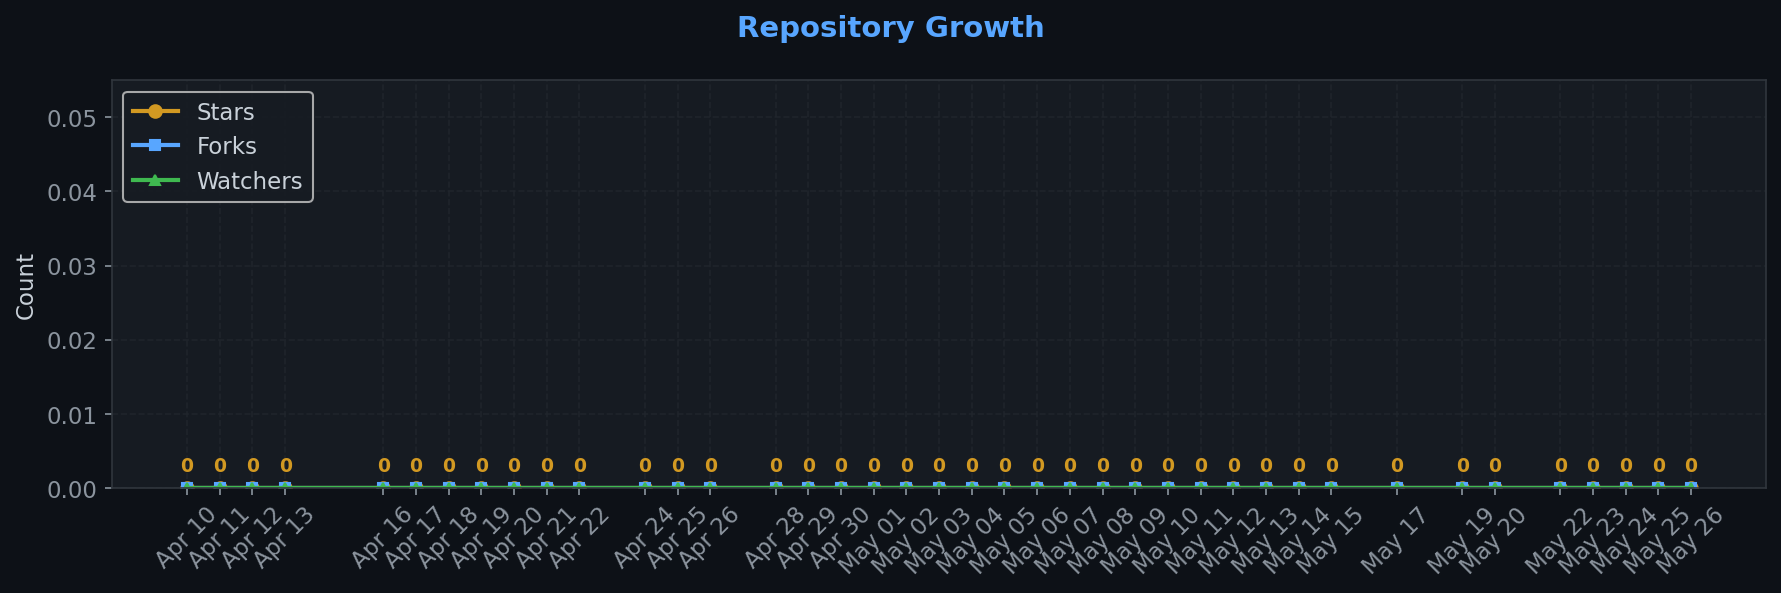
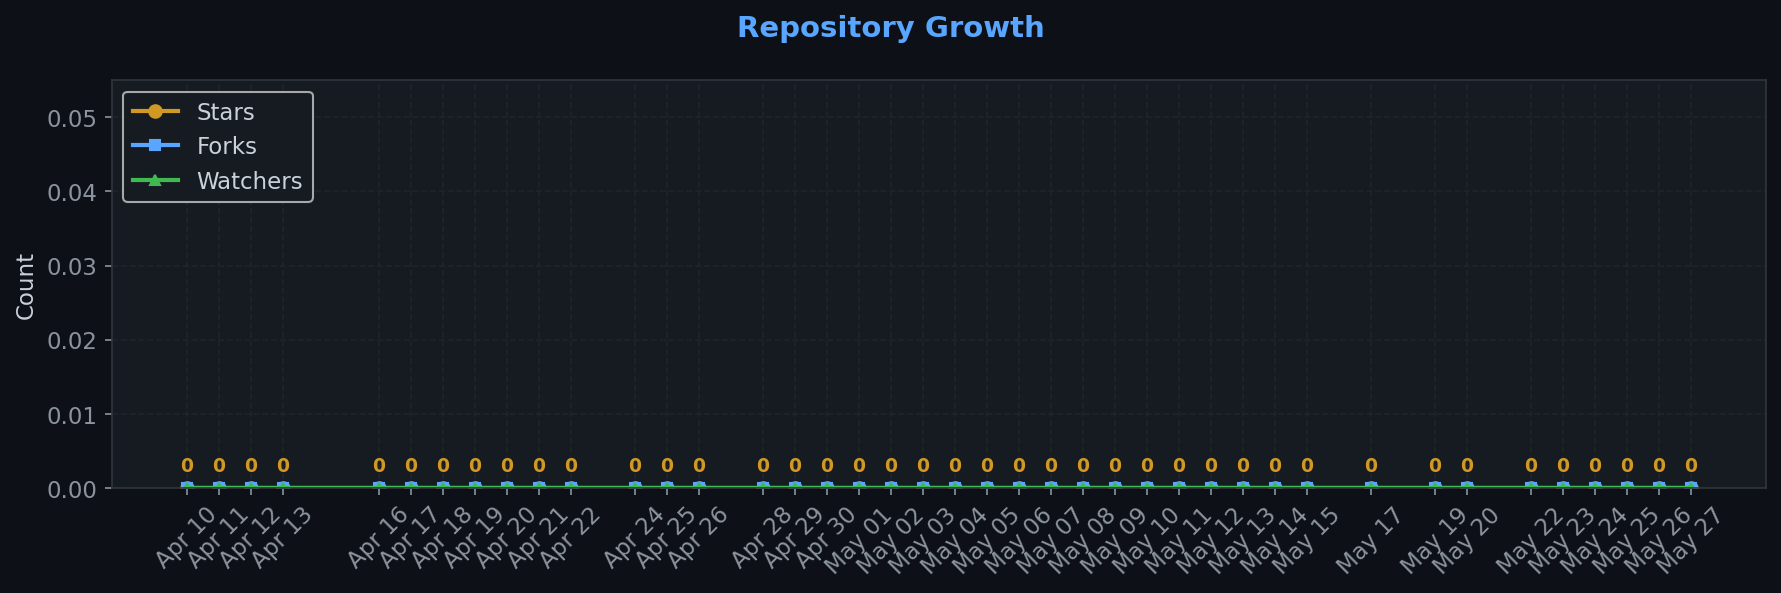
chore: Full traffic snapshot 2026-05-27_12:17

diff --git a/.github/traffic/SUMMARY.md b/.github/traffic/SUMMARY.md
@@ -1,7 +1,7 @@
 # Repository Traffic Dashboard
 
-**Last updated:** 2026-05-26T00:10:24Z
-**Days tracked:** 40 | **Download snapshots:** 61 (hourly)
+**Last updated:** 2026-05-27T12:17:47Z
+**Days tracked:** 41 | **Download snapshots:** 62 (hourly)
 
 ---
 
